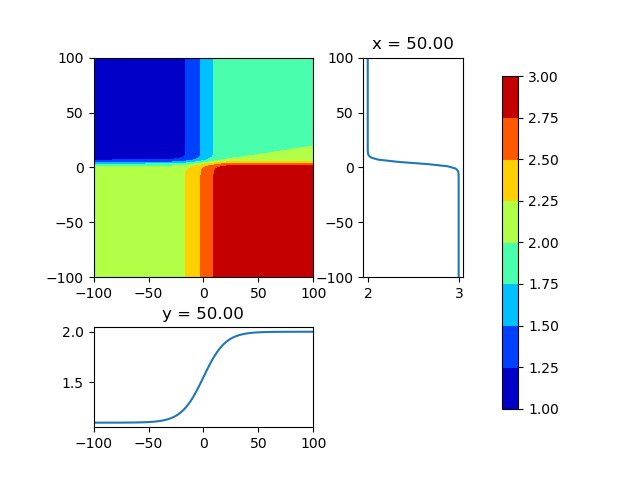
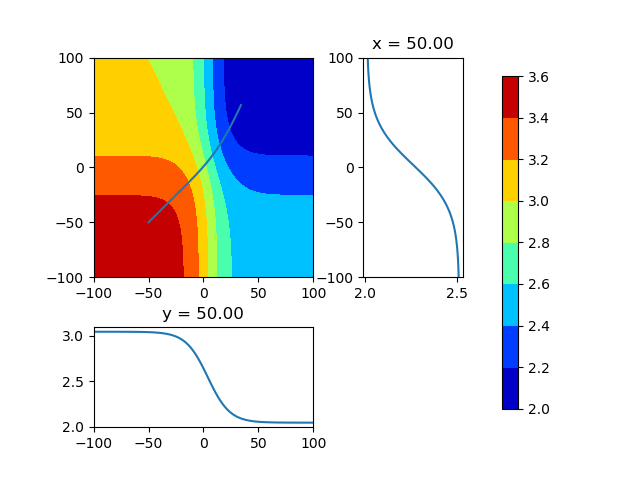
plot test

diff --git a/plot_snell.py b/plot_snell.py
@@ -7,19 +7,39 @@ from mpl_toolkits.axes_grid1 import make_axes_locatable
 
 class OpticsTraject (object):
 
-    def __init__(self):
-        self.cff_x = 0.1
+    def __init__(self, xy=[-50, -50], th=45):
+        self.cff_x = 2.0
         self.rng_x = 10.0
-        self.cff_y = 2.0
-        self.rng_y = 1.5
+        self.cff_y = 1.5
+        self.rng_y = 20.0
+        self.initialize(xy, th)
 
-        self.xy0 = [0, 0]
-        self.th0 = 0.0
-        # self.vc0 = [self.refract_2d(r_0[0]) * np.cos(theta_0),
-        #            self.refract_2d(r_0[0]) * np.sin(theta_0)]
+    def diff_func(self, dat, t):
+        # Compute the differential
+        pos = [dat[0], dat[1]]
+        vec = [dat[2], dat[3]]
+        grd = nd.Gradient(self.refract)(pos)
+        ref = self.refract(pos)
+        #self.pos = [self.vec[0], self.vec[1]]
+        #self.vec = [grd[0] * ref, grd[1] * ref]
+        return vec + [grd[0] * ref, grd[1] * ref] + [ref]
 
-    def initialize(self, xy=[0,0], th=0):
-        print("ok")
+    def diff_run(self, t=[0, 50, 0.01]):
+        self.t_range = np.arange(*t)
+        ini_dat = self.pos + self.vec + [self.ref]
+        dat = odeint(self.diff_func, ini_dat, self.t_range)
+        self.dat = np.array(dat)
+        print(self.dat)
+
+    def initialize(self, xy=[0, 0], th=0):
+        self.pos = [xy[0], xy[1]]
+        self.rad = np.deg2rad(th)
+
+        self.ref = self.refract_2d(*self.pos)
+        self.vec = [
+            self.ref * np.cos(self.rad),
+            self.ref * np.sin(self.rad)
+        ]
 
     def refract_2d(self, x=0, y=0):
         ref_x = self.cff_x - (self.cff_x - 1) / \
@@ -28,17 +48,11 @@ class OpticsTraject (object):
             (1 + np.exp(-(y - self.cff_y**2) / self.rng_y))
         return ref_x + ref_y
 
-    def refract(self, r):
+    def refract(self, xy=[0, 0]):
         # Refractive index function
-        return self.refract_2d(*r)
+        return self.refract_2d(*xy)
 
-    def diff_y(self, y, t):
-        # Compute the differential
-        grd = nd.Gradient(self.refract)([y[0], y[1]])
-        n_t = self.refract([y[0], y[1]])
-        return [y[2], y[3], grd[0] * n_t, grd[1] * n_t]
-
-    def plot_2d(self):
+    def plot_2d(self, dirname="./", pngname="plot_snell"):
         sx, sy = 50.0, 50.0
         nx, ny = 100, 100
         px = np.linspace(-1, 1, nx) * 100
@@ -53,7 +67,7 @@ class OpticsTraject (object):
         fig, ax = plt.subplots()
         divider = make_axes_locatable(ax)
         ax.set_aspect('equal')
-        
+
         ax_x = divider.append_axes("bottom", 1.0, pad=0.5, sharex=ax)
         ax_x.plot(mesh[0][mx, :], func[mx, :])
         ax_x.set_title("y = {:.2f}".format(sy))
@@ -63,11 +77,37 @@ class OpticsTraject (object):
         ax_y.set_title("x = {:.2f}".format(sx))
 
         im = ax.contourf(*mesh, func, cmap="jet")
+        ax.plot(self.dat[:, 0], self.dat[:, 1])
         plt.colorbar(im, ax=ax, shrink=0.9)
 
-        plt.savefig("./plot_snell.png")
+        pngfile = dirname + pngname + ".png"
+        plt.savefig(pngfile)
+
+        plt.subplot(211)
+        plt.plot(self.t_range, self.dat[:, 0])
+
+        plt.subplot(212)
+        plt.plot(self.t_range, self.dat[:, 1])
+
+        pngfile = dirname + pngname + "_xy.png"
+        plt.savefig(pngfile)
+
+        plt.subplot()
+        plt.plot(self.t_range, self.dat[:, -1])
+
+        pngfile = dirname + pngname + "_ref.png"
+        plt.savefig(pngfile)
 
 
 if __name__ == '__main__':
     obj = OpticsTraject()
+    obj.diff_run()
     obj.plot_2d()
+
+    obj.initialize(xy=[-50, -50], th=30)
+    obj.diff_run(t=[0, 50, 0.1])
+    obj.plot_2d(pngname="plot_snell01")
+
+    obj.initialize(xy=[-50, -50], th=30)
+    obj.diff_run(t=[0, 50, 0.01])
+    obj.plot_2d(pngname="plot_snell02")
